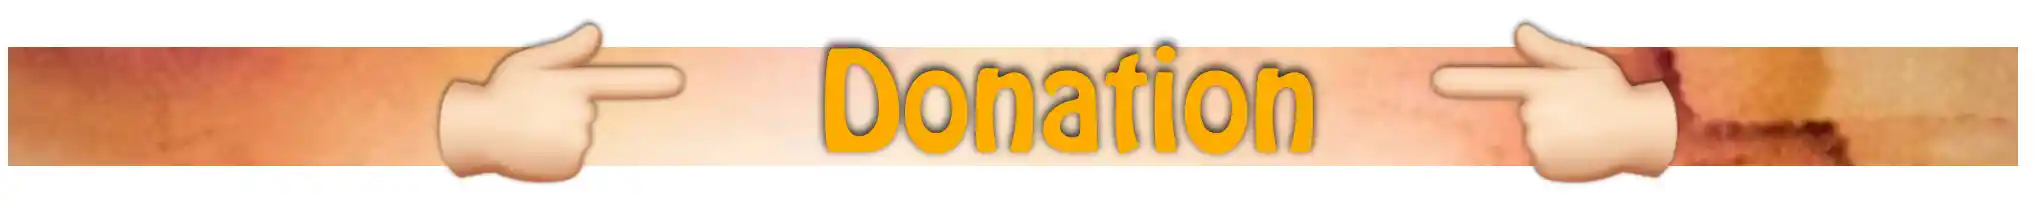
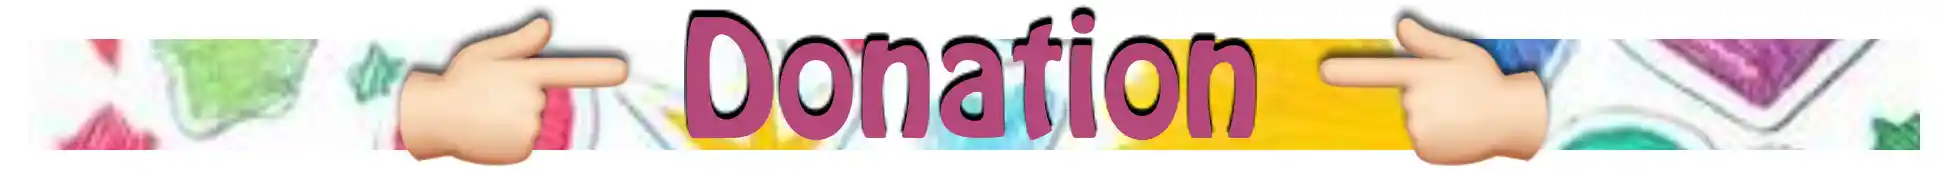
MAJ EN et correction bug JS OK

diff --git a/rejoice_en.html b/rejoice_en.html
@@ -8,7 +8,7 @@
 </head>
 <body>
     <section class="dons">
-        <img src="./img/rejoice/faireundon.webp" alt="contact-us" class="toggle-button">
+        <img src="./img/rejoice/contactus.webp" alt="contact-us" class="toggle-button">
             <div class="additional-text">
                 <iframe id="haWidget" allowtransparency="true" scrolling="auto" src="https://www.helloasso.com/associations/rejoice-63/formulaires/1/widget" style="width: 100%; height: 760px; border: none;"></iframe>
             </div>
@@ -79,7 +79,7 @@
 
     <section id="notre-programme">
         <div class="header-pc">
-            <img src="./img/rejoice/prog-aide-site.webp" alt="">
+            <img src="./img/rejoice/prog-aide-site.webp" alt="header and title of the assistance program">
         </div>
         <div class="header">
             <h2>Our assistance program</h2>
@@ -87,22 +87,22 @@
         <div id="flex-cards">
             <div class="card">
                 <h3>Building and supporting schools</h3>
-                <img src="./img/rejoice/icones/ico1.webp" alt="">
+                <img src="./img/rejoice/icones/ico1.webp" alt="icones of the first program">
                 <p>REJOICE supports schoolchildren who are taken into care to provide for their needs and education.</p>
             </div>
             <div class="card">
                 <h3>Disability training centers</h3>
-                <img src="./img/rejoice/icones/ico2.webp" alt="">
+                <img src="./img/rejoice/icones/ico2.webp" alt="icones of the second program">
                 <p>REJOICE helps the most disadvantaged people with severe disabilities to get off the streets and become self-sufficient in a trade.</p>
             </div>
             <div class="card">
                 <h3>Emergency aid</h3>
-                <img src="./img/rejoice/icones/ico3.webp" alt="">
+                <img src="./img/rejoice/icones/ico3.webp" alt="icones of the third program">
                 <p>REJOICE always maintains a reserve fund for emergency aid, so that we can intervene quickly if the need arises.</p>
             </div>
             <div class="card">
                 <h3>Orphanage support</h3>
-                <img src="./img/rejoice/icones/ico4.webp" alt="">
+                <img src="./img/rejoice/icones/ico4.webp" alt="icones of the fourth program">
                 <p>REJOICE supports orphanages around Kathmandu. Helping to finance structures and related expenses.</p>
             </div>
         </div>
@@ -121,13 +121,13 @@
         </div>
     </section>
     <section id="contactez-nous">
-        <img src="./img/rejoice/contacteznous.webp" alt="contact-us" class="toggle-button">
+        <img src="./img/rejoice/contactus.webp" alt="contact-us" class="toggle-button">
             <div class="additional-text">
                 <iframe src="https://docs.google.com/forms/d/e/1FAIpQLSfpjhfLZE9RLFELJjwZ8L5SO-oqDezHrC-yzAOlUwvjsJqh4g/viewform?embedded=true" id="googleform" frameborder="0" marginheight="0" marginwidth="0">Loading…</iframe>
             </div>
     </section>
     <section class="dons">
-        <img src="./img/rejoice/faireundon.webp" alt="contact-us" class="toggle-button">
+        <img src="./img/rejoice/donation.webp" alt="contact-us" class="toggle-button">
             <div class="additional-text">
                 <iframe id="haWidget" allowtransparency="true" scrolling="auto" src="https://www.helloasso.com/associations/rejoice-63/formulaires/1/widget" style="width: 100%; height: 760px; border: none;"></iframe>
             </div>

diff --git a/js/rejoice.js b/js/rejoice.js
@@ -1,3 +1,7 @@
+// Toggle language   / Toglle des boutons pour les iframes des dons et contactez-nous
+
+
+// ---------------------- Toggle language
 document.querySelectorAll('.language-option').forEach(option => {
         option.addEventListener('click', function(e) {
             e.preventDefault();
@@ -9,3 +13,23 @@ document.querySelectorAll('.language-option').forEach(option => {
             }
         });
     });
+
+
+// -------------------------------------  Toggle des boutons pour les iframes des dons et contactez-nous
+// Récupérez tous les boutons et le texte supplémentaire
+const toggleButtons = document.querySelectorAll('.toggle-button');
+const additionalTexts = document.querySelectorAll('.additional-text');
+
+// Ajoutez un gestionnaire d'événements de clic à chaque bouton
+toggleButtons.forEach((button, index) => {
+    button.addEventListener('click', () => {
+        // Affichez ou masquez le texte supplémentaire en fonction de son état actuel
+        if (additionalTexts[index].style.display === 'none' || additionalTexts[index].style.display === '') {
+            additionalTexts[index].style.display = 'block';
+            button.textContent = ' < ';
+        } else {
+            additionalTexts[index].style.display = 'none';
+            button.textContent = ' > ';
+        }
+    });
+});
